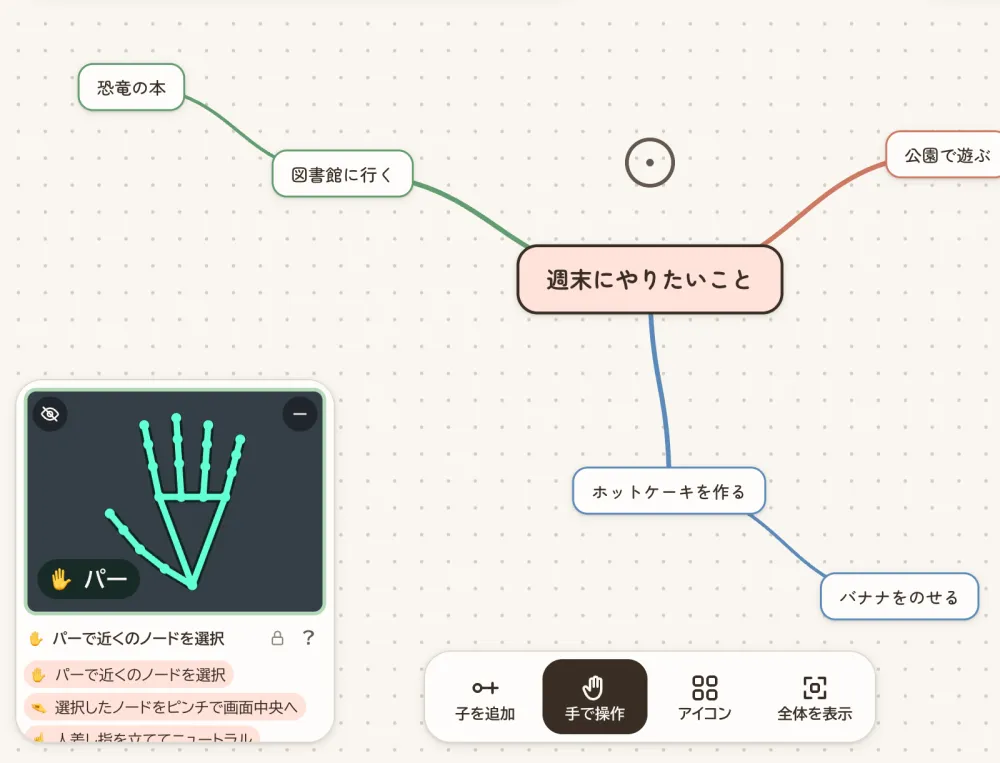
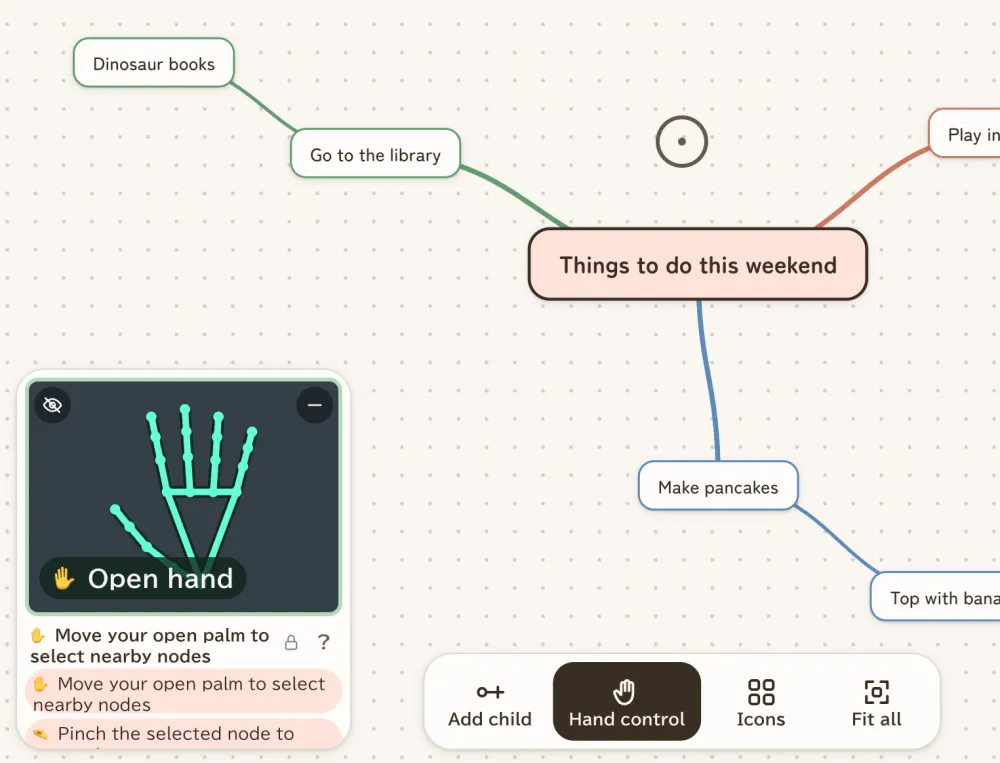
feat(landing): show English screenshots to English readers
Screenshots were captured with a Japanese locale, so English visitors
saw Japanese UI text in every image. Re-shot all seven images with
en-US (same synthetic-hand flow, English speech input), kept the
Japanese set as *.ja.webp, and pick the file per language through a
new data-i18n-src attribute. The relay test now checks every
language's image path.

diff --git a/ui-prototype/i18n.js b/ui-prototype/i18n.js
@@ -1025,6 +1025,13 @@
   "landing.lede": "A mind map that runs in your browser. Besides mouse and touch, you can add and delete nodes with hand gestures in front of your camera.",
   "landing.cta": "Try the mind map",
   "landing.ctaNote": "No sign-up. Maps are saved in this browser on your device.",
+  "landing.mapSrc": "landing/map.webp",
+  "landing.iconsSrc": "landing/icons.webp",
+  "landing.step1Src": "landing/step1.webp",
+  "landing.step2Src": "landing/step2.webp",
+  "landing.step3Src": "landing/step3.webp",
+  "landing.step4Src": "landing/step4.webp",
+  "landing.step5Src": "landing/step5.webp",
   "landing.mapAlt": "The mind map editor. Branches in different colors grow from the central node “Things to do this weekend”.",
   "landing.handsTitle": "✌ adds a node.",
   "landing.handsLede": "Press “Hand control” at the bottom and allow the camera. Hands are recognized on your device, and the video is never saved.",
@@ -1081,6 +1088,13 @@
   "landing.lede": "ブラウザで動くマインドマップです。マウスやタッチはもちろん、カメラに映した手のジェスチャーでもノードを追加・削除できます。",
   "landing.cta": "マインドマップを試す",
   "landing.ctaNote": "登録不要。マップは端末のブラウザ内に保存されます。",
+  "landing.mapSrc": "landing/map.ja.webp",
+  "landing.iconsSrc": "landing/icons.ja.webp",
+  "landing.step1Src": "landing/step1.ja.webp",
+  "landing.step2Src": "landing/step2.ja.webp",
+  "landing.step3Src": "landing/step3.ja.webp",
+  "landing.step4Src": "landing/step4.ja.webp",
+  "landing.step5Src": "landing/step5.ja.webp",
   "landing.mapAlt": "マインドマップの編集画面。中心の「週末にやりたいこと」から色分けされた枝が広がっている",
   "landing.handsTitle": "✌ でノードが増える。",
   "landing.handsLede": "画面下の「手で操作」を押してカメラを許可するだけ。手の形は端末内で認識し、カメラ映像は保存しません。",
@@ -1135,10 +1149,10 @@
     const value = messages[lang][key] ?? en[key] ?? key;
     return typeof value === 'function' ? value(...args) : value;
   }
-  const ATTRS = { i18n: null, i18nAriaLabel: 'aria-label', i18nTitle: 'title', i18nPlaceholder: 'placeholder', i18nAlt: 'alt', i18nContent: 'content' };
+  const ATTRS = { i18n: null, i18nAriaLabel: 'aria-label', i18nTitle: 'title', i18nPlaceholder: 'placeholder', i18nAlt: 'alt', i18nContent: 'content', i18nSrc: 'src' };
   function apply(doc) {
     doc.documentElement.lang = lang;
-    for (const el of doc.querySelectorAll('[data-i18n],[data-i18n-aria-label],[data-i18n-title],[data-i18n-placeholder],[data-i18n-alt],[data-i18n-content]'))
+    for (const el of doc.querySelectorAll('[data-i18n],[data-i18n-aria-label],[data-i18n-title],[data-i18n-placeholder],[data-i18n-alt],[data-i18n-content],[data-i18n-src]'))
       for (const [key, attr] of Object.entries(ATTRS)) if (el.dataset[key]) attr ? el.setAttribute(attr, t(el.dataset[key])) : el.textContent = t(el.dataset[key]);
   }
   if (globalThis.document?.querySelectorAll) apply(globalThis.document);

diff --git a/ui-prototype/landing.html b/ui-prototype/landing.html
@@ -120,7 +120,7 @@ p { margin: 0; }
       <p class="note" data-i18n="landing.ctaNote"></p>
     </div>
     <figure class="shot">
-      <img src="landing/map.webp" width="1440" height="900" data-i18n-alt="landing.mapAlt" alt="">
+      <img data-i18n-src="landing.mapSrc" width="1440" height="900" data-i18n-alt="landing.mapAlt" alt="">
     </figure>
   </div>
 </header>
@@ -153,27 +153,27 @@ p { margin: 0; }
       </div>
       <ol class="steps">
         <li>
-          <figure class="shot"><img src="landing/step1.webp" width="1000" height="763" loading="lazy" data-i18n-alt="landing.step1Alt" alt=""></figure>
+          <figure class="shot"><img data-i18n-src="landing.step1Src" width="1000" height="763" loading="lazy" data-i18n-alt="landing.step1Alt" alt=""></figure>
           <h3 data-i18n="landing.step1"></h3>
           <p data-i18n="landing.step1Do"></p>
         </li>
         <li>
-          <figure class="shot"><img src="landing/step2.webp" width="1000" height="763" loading="lazy" data-i18n-alt="landing.step2Alt" alt=""></figure>
+          <figure class="shot"><img data-i18n-src="landing.step2Src" width="1000" height="763" loading="lazy" data-i18n-alt="landing.step2Alt" alt=""></figure>
           <h3 data-i18n="landing.step2"></h3>
           <p data-i18n="landing.step2Do"></p>
         </li>
         <li>
-          <figure class="shot"><img src="landing/step3.webp" width="1000" height="763" loading="lazy" data-i18n-alt="landing.step3Alt" alt=""></figure>
+          <figure class="shot"><img data-i18n-src="landing.step3Src" width="1000" height="763" loading="lazy" data-i18n-alt="landing.step3Alt" alt=""></figure>
           <h3 data-i18n="landing.step3"></h3>
           <p data-i18n="landing.step3Do"></p>
         </li>
         <li>
-          <figure class="shot"><img src="landing/step4.webp" width="1000" height="763" loading="lazy" data-i18n-alt="landing.step4Alt" alt=""></figure>
+          <figure class="shot"><img data-i18n-src="landing.step4Src" width="1000" height="763" loading="lazy" data-i18n-alt="landing.step4Alt" alt=""></figure>
           <h3 data-i18n="landing.step4"></h3>
           <p data-i18n="landing.step4Do"></p>
         </li>
         <li>
-          <figure class="shot"><img src="landing/step5.webp" width="1000" height="763" loading="lazy" data-i18n-alt="landing.step5Alt" alt=""></figure>
+          <figure class="shot"><img data-i18n-src="landing.step5Src" width="1000" height="763" loading="lazy" data-i18n-alt="landing.step5Alt" alt=""></figure>
           <h3 data-i18n="landing.step5"></h3>
           <p data-i18n="landing.step5Do"></p>
         </li>
@@ -192,7 +192,7 @@ p { margin: 0; }
         </dl>
       </div>
       <figure class="shot">
-        <img src="landing/icons.webp" width="1440" height="900" loading="lazy" data-i18n-alt="landing.iconsAlt" alt="">
+        <img data-i18n-src="landing.iconsSrc" width="1440" height="900" loading="lazy" data-i18n-alt="landing.iconsAlt" alt="">
       </figure>
     </div>
   </section>
